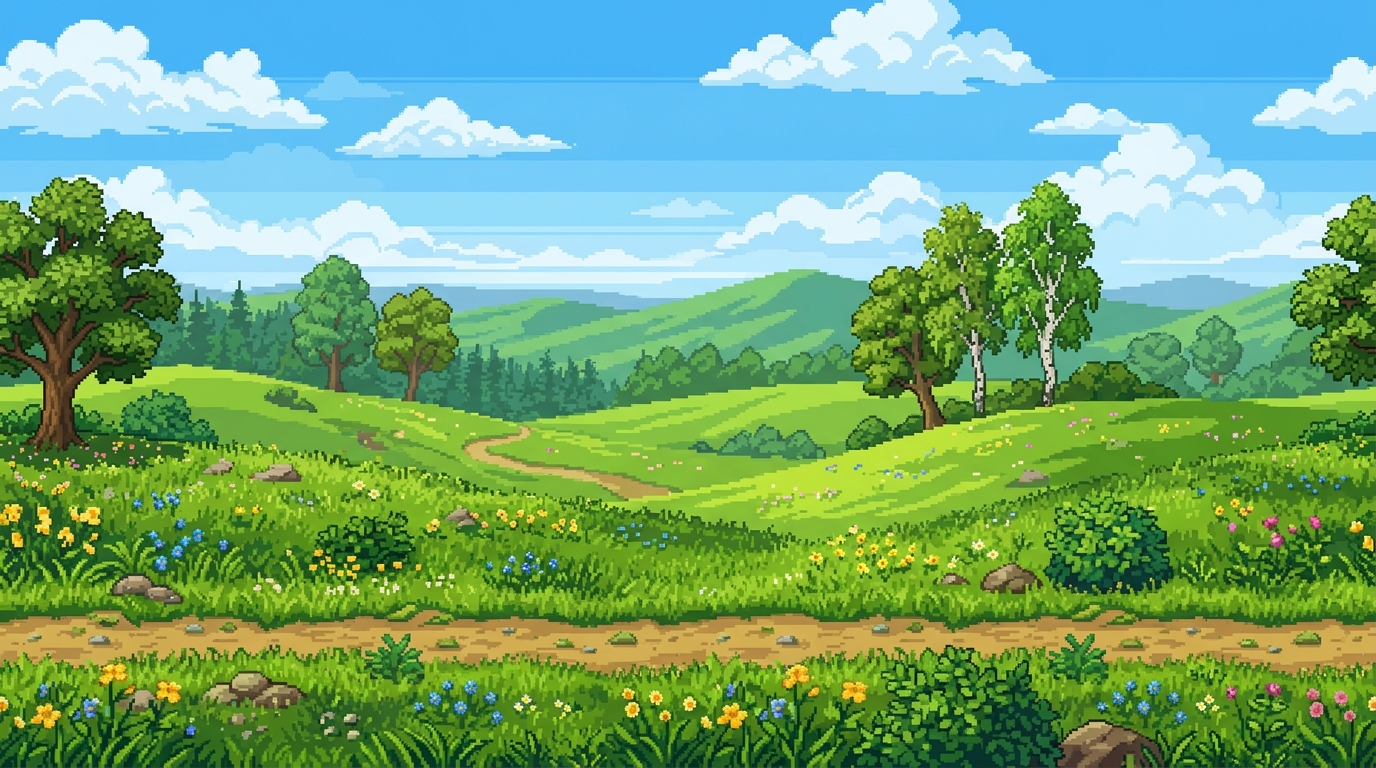
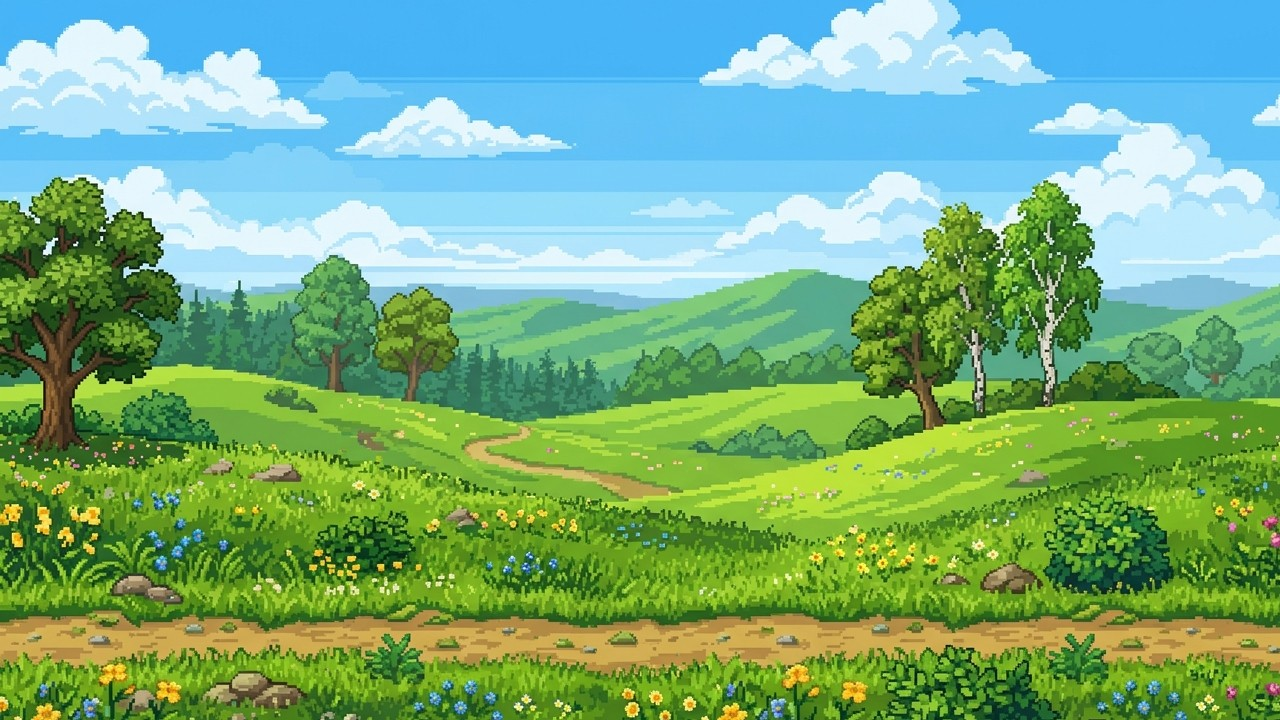
画像など調整

diff --git a/ClearScene.cpp b/ClearScene.cpp
@@ -11,11 +11,11 @@ ClearScene::ClearScene(GameObject* parent)
 
 void ClearScene::Initialize()
 {
-	//hTitlePic_ = Image::Load("utyuu.png");
-	//assert(hTitlePic_ >= 0);
+	hTitlePic_ = Image::Load("run_oji_clear.png");
+	assert(hTitlePic_ >= 0);
 
-	hTextPic_ = Image::Load("clear_moji.png");
-	assert(hTextPic_ >= 0);
+	//hTextPic_ = Image::Load("clear_moji.png");
+	//assert(hTextPic_ >= 0);
 }
 
 void ClearScene::Update()
@@ -34,11 +34,11 @@ void ClearScene::Draw()
 
 	//transform_.scale_ = { 2.0f,2.0f,2.0f };      //画像サイズを二倍に
 	
-	//Image::SetTransform(hTitlePic_, transform_); //画像の位置や向きなどを設定
-	//Image::Draw(hTitlePic_); //画像を描画
+	Image::SetTransform(hTitlePic_, transform_); //画像の位置や向きなどを設定
+	Image::Draw(hTitlePic_); //画像を描画
 
-	Image::SetTransform(hTextPic_, transform_); //文字画像の位置や向きなどを設定
-	Image::Draw(hTextPic_); //文字画像を描画
+	//Image::SetTransform(hTextPic_, transform_); //文字画像の位置や向きなどを設定
+	//Image::Draw(hTextPic_); //文字画像を描画
 
 }
 

diff --git a/PlayScene.cpp b/PlayScene.cpp
@@ -4,6 +4,9 @@
 #include "Ground.h"
 #include "Engine/Camera.h"
 #include "Engine/Text.h"
+#include"Engine/Input.h"
+#include"Engine/SceneManager.h"
+
 
 namespace {
 	Ground* pGround;
@@ -40,6 +43,15 @@ void PlayScene::Update()
 		Camera::SetPosition({ pPlayer_->GetPosition().x, START_POS.y + CAMERA_HEIGHT,-22 });
 		Camera::SetTarget({ pPlayer_->GetPosition().x, START_POS.y + CAMERA_HEIGHT,0 });
 	}
+	if (Input::IsKeyDown(DIK_C))
+	{
+		//シーンマネージャーを探して、シーン切り替えの関数を呼ぶ
+		// 見つからない場合はnullptrが返るので、nullptrでないことを確認してから呼ぶ
+
+		SceneManager* pSceneManager = (SceneManager*)(this->GetParent());
+		pSceneManager->ChangeScene(SCENE_ID_CLEAR);
+		//pSceneManager->ChangeScene(SCENE_ID_CLEAR);
+	}
 
 }
 
@@ -63,5 +75,5 @@ void PlayScene::Draw()
 //開放
 void PlayScene::Release()
 {
-	pText_->Release();//テキストの開放
+	//pText_->Release();//テキストの開放
 }
